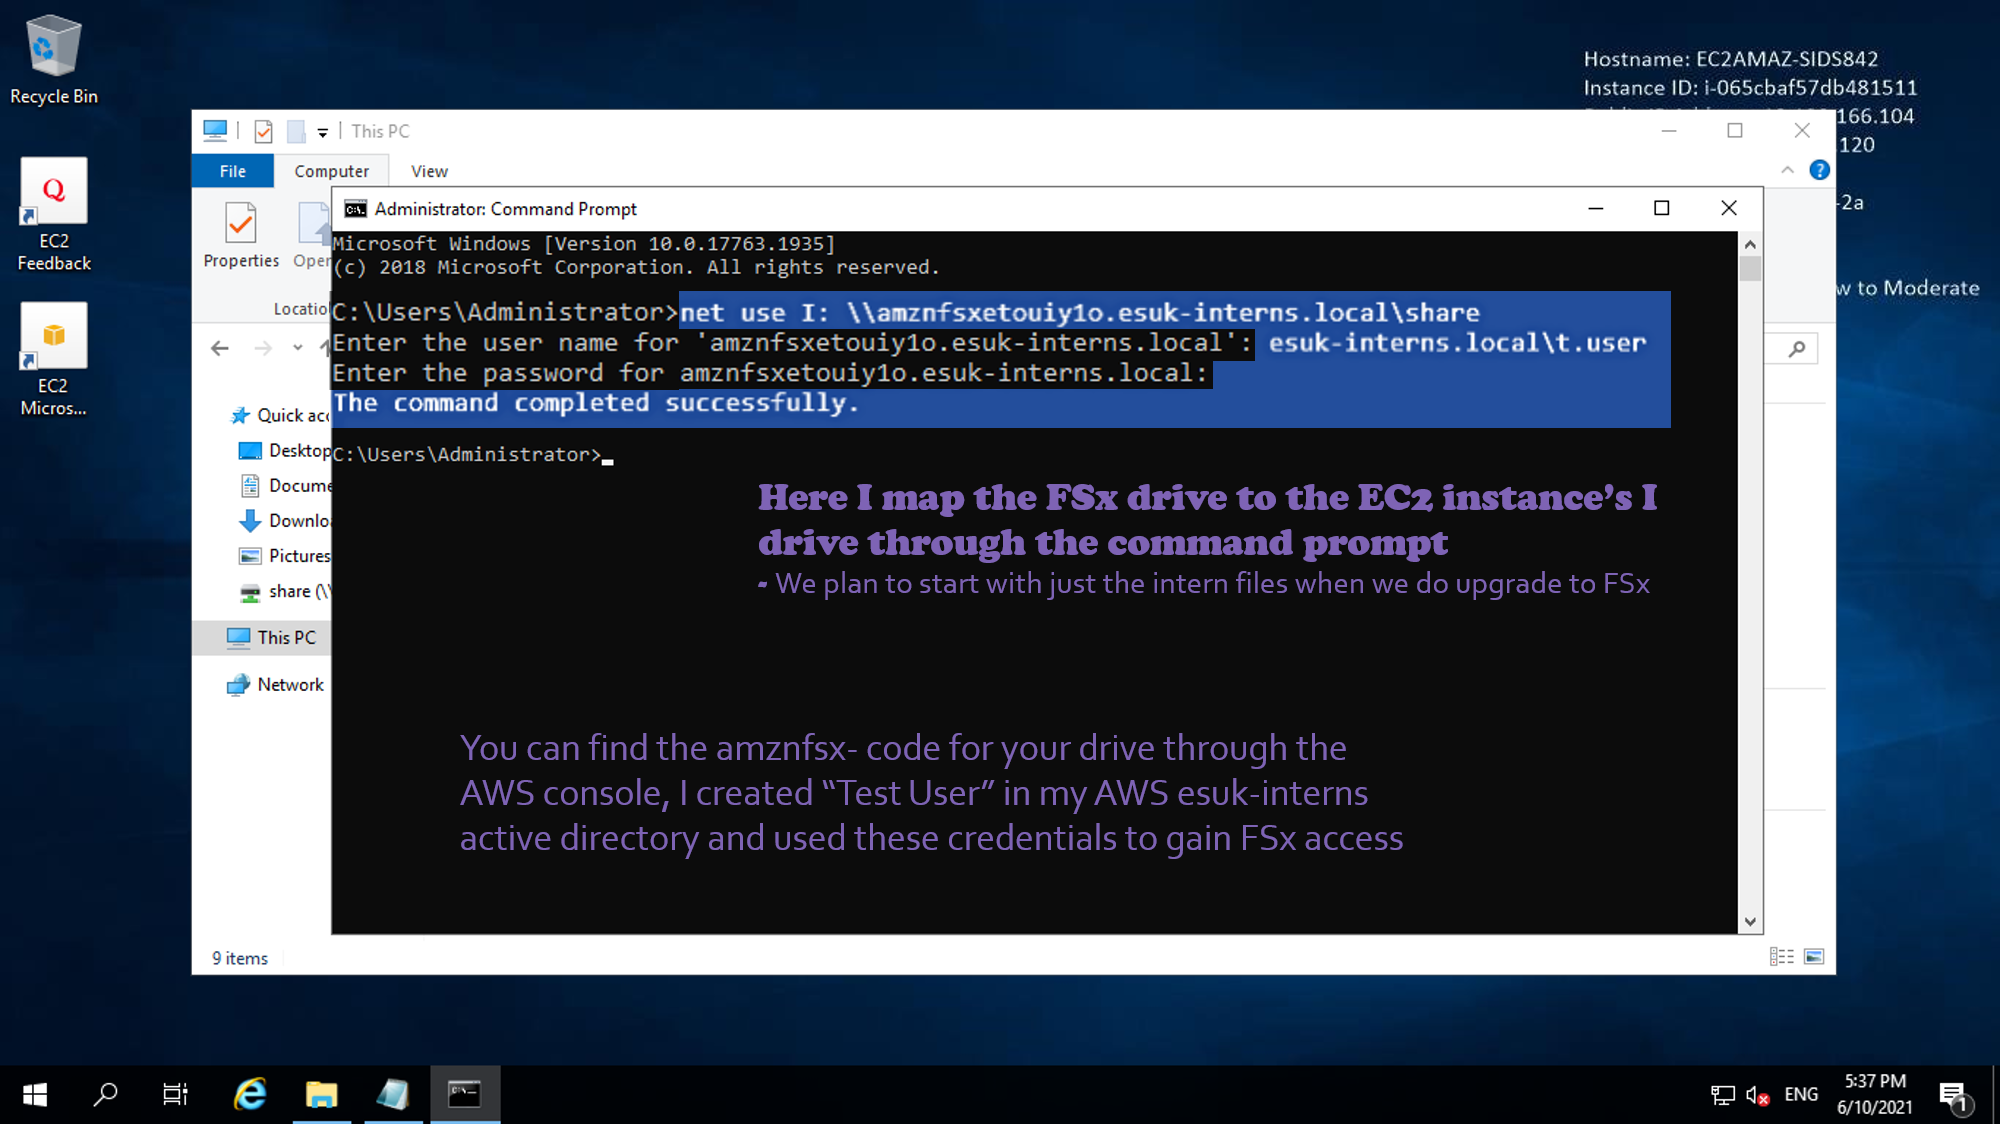
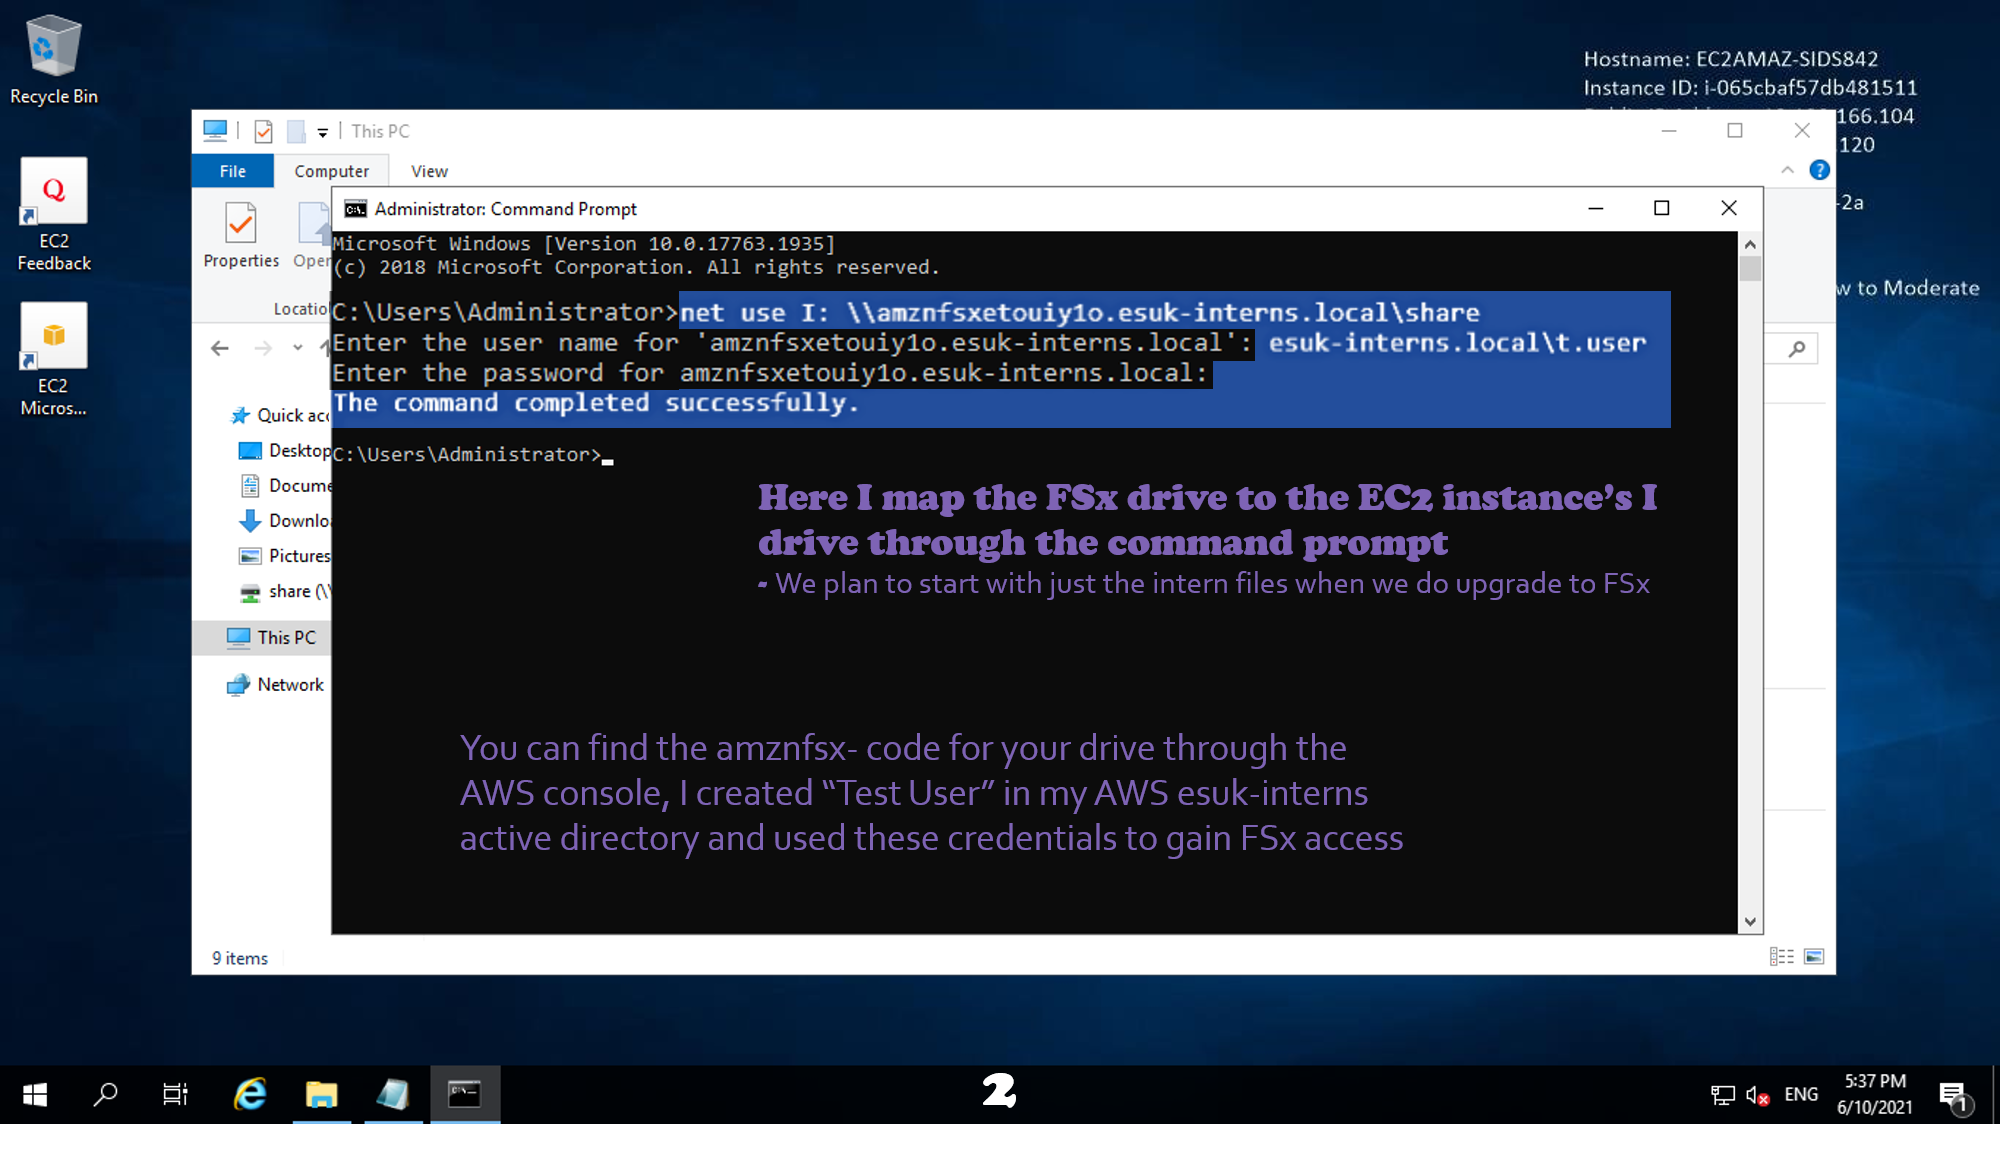
Added numbers to the images

diff --git a/sections/projectPages/FSxGallery.html b/sections/projectPages/FSxGallery.html
@@ -91,10 +91,10 @@
 </style>
 
 <div class="grid-Lightbox">
-  <img src="https://raw.githubusercontent.com/jAdelaide/Portfolio/shove/assets/AWS%20FSx/1.png" title="Step 1" alt="No external drive is mapped">
-  <img src="https://raw.githubusercontent.com/jAdelaide/Portfolio/shove/assets/AWS%20FSx/2.png" title="Step 2" alt="Mapping to my FSx drive from the EC2 instance">
-  <img src="https://raw.githubusercontent.com/jAdelaide/Portfolio/shove/assets/AWS%20FSx/3.png" title="Step 3" alt="The external drive is now mapped">
-  <img src="https://raw.githubusercontent.com/jAdelaide/Portfolio/shove/assets/AWS%20FSx/4.png" title="Step 4" alt="Test file saved in the FSx drive can now be accessed">
+  <img src="../../assets/AWS FSx/1.png" title="Step 1" alt="No external drive is mapped">
+  <img src="../../assets/AWS FSx/2.png" title="Step 2" alt="Mapping to my FSx drive from the EC2 instance">
+  <img src="../../assets/AWS FSx/3.png" title="Step 3" alt="The external drive is now mapped">
+  <img src="../../assets/AWS FSx/4.png" title="Step 4" alt="Test file saved in the FSx drive can now be accessed">
 </div>
 
 <script>
